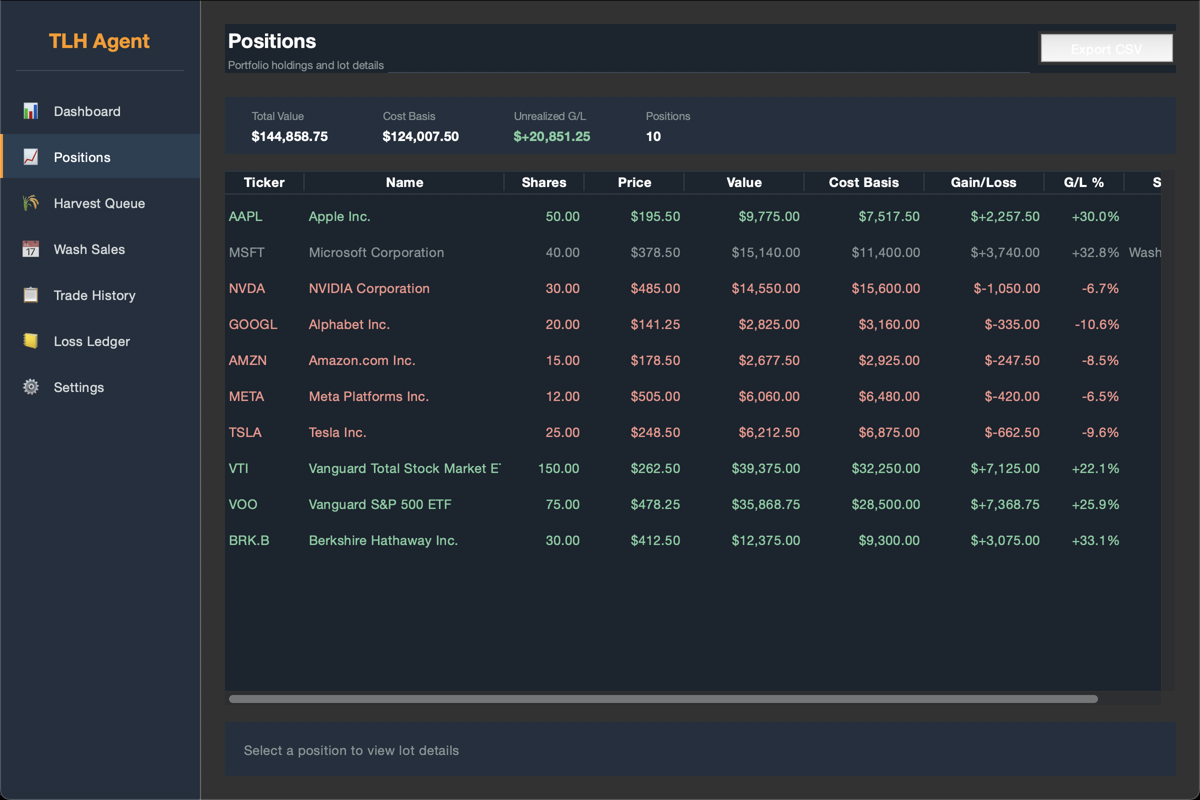
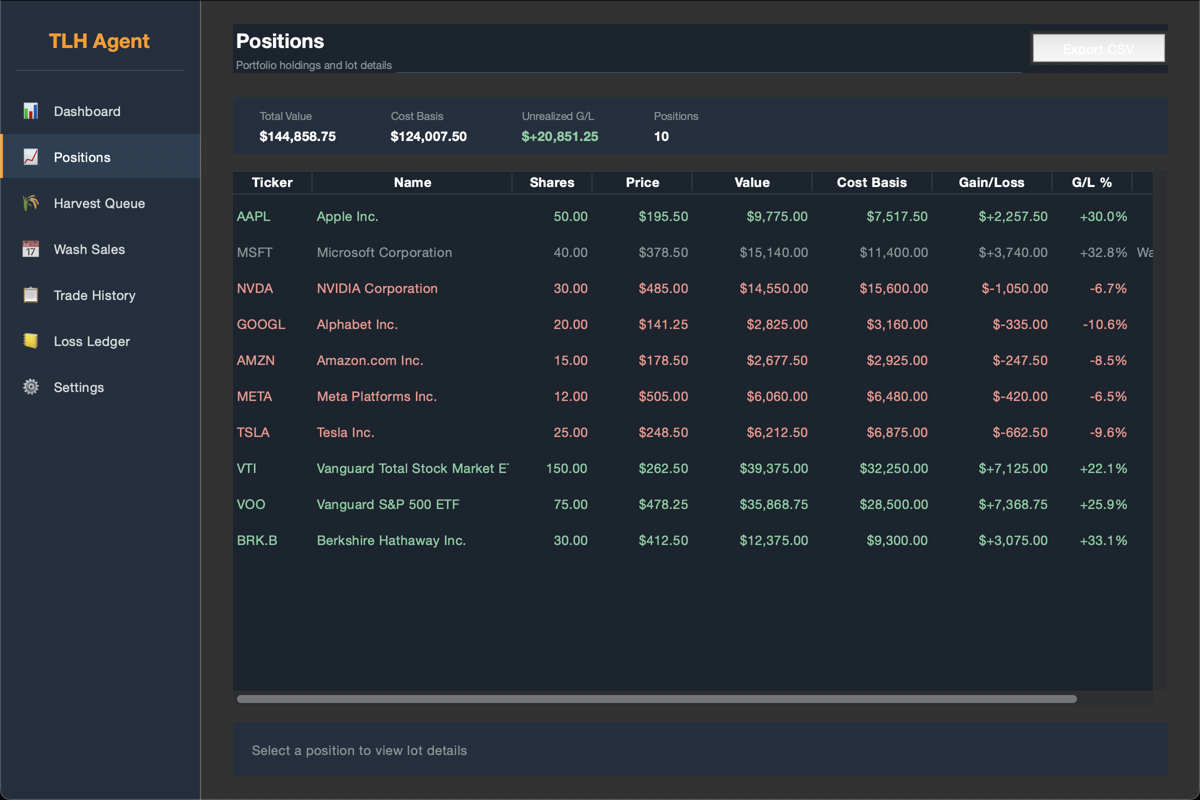
Increase content area padding for better spacing
Horizontal padding increased from LG (24px) to XL (32px) for more
comfortable spacing between sidebar and content edges.

diff --git a/src/tlh_agent/ui/main_window.py b/src/tlh_agent/ui/main_window.py
@@ -88,12 +88,12 @@ class MainWindow(ttk.Frame):
         if self._current_screen and self._current_screen in self._screens:
             self._screens[self._current_screen].pack_forget()
 
-        # Show new screen
+        # Show new screen with comfortable padding
         if screen_name in self._screens:
             self._screens[screen_name].pack(
                 fill=tk.BOTH,
                 expand=True,
-                padx=Theme.spacing.LG,
+                padx=Theme.spacing.XL,
                 pady=Theme.spacing.LG,
             )
             self._current_screen = screen_name
